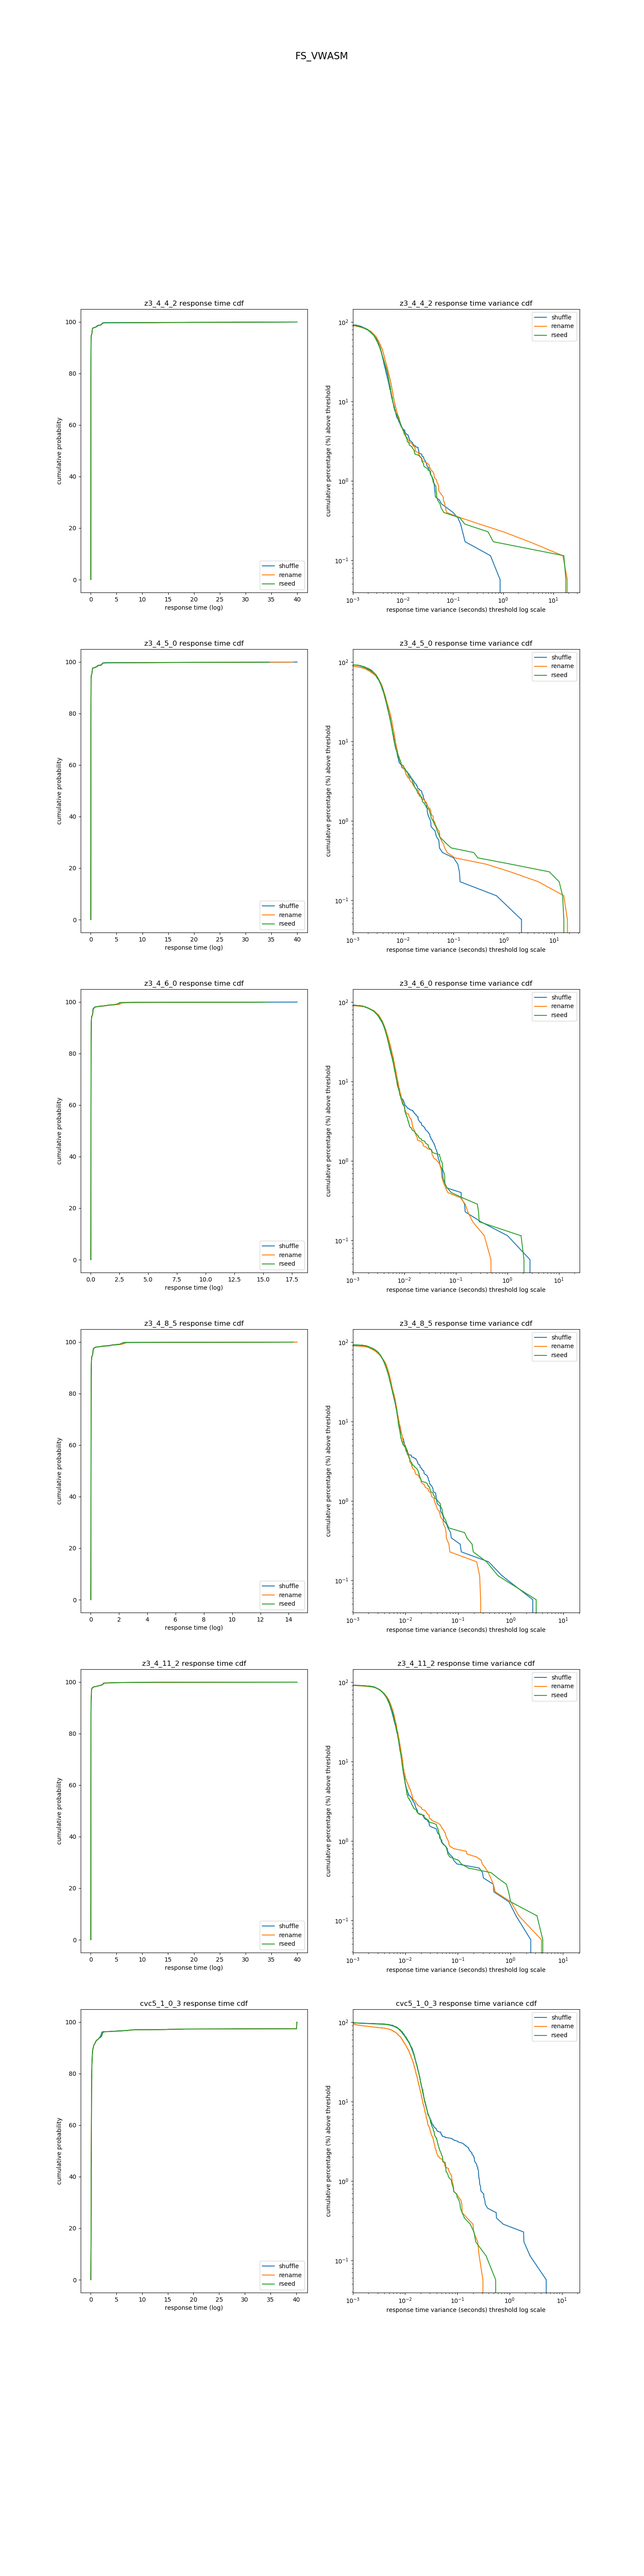
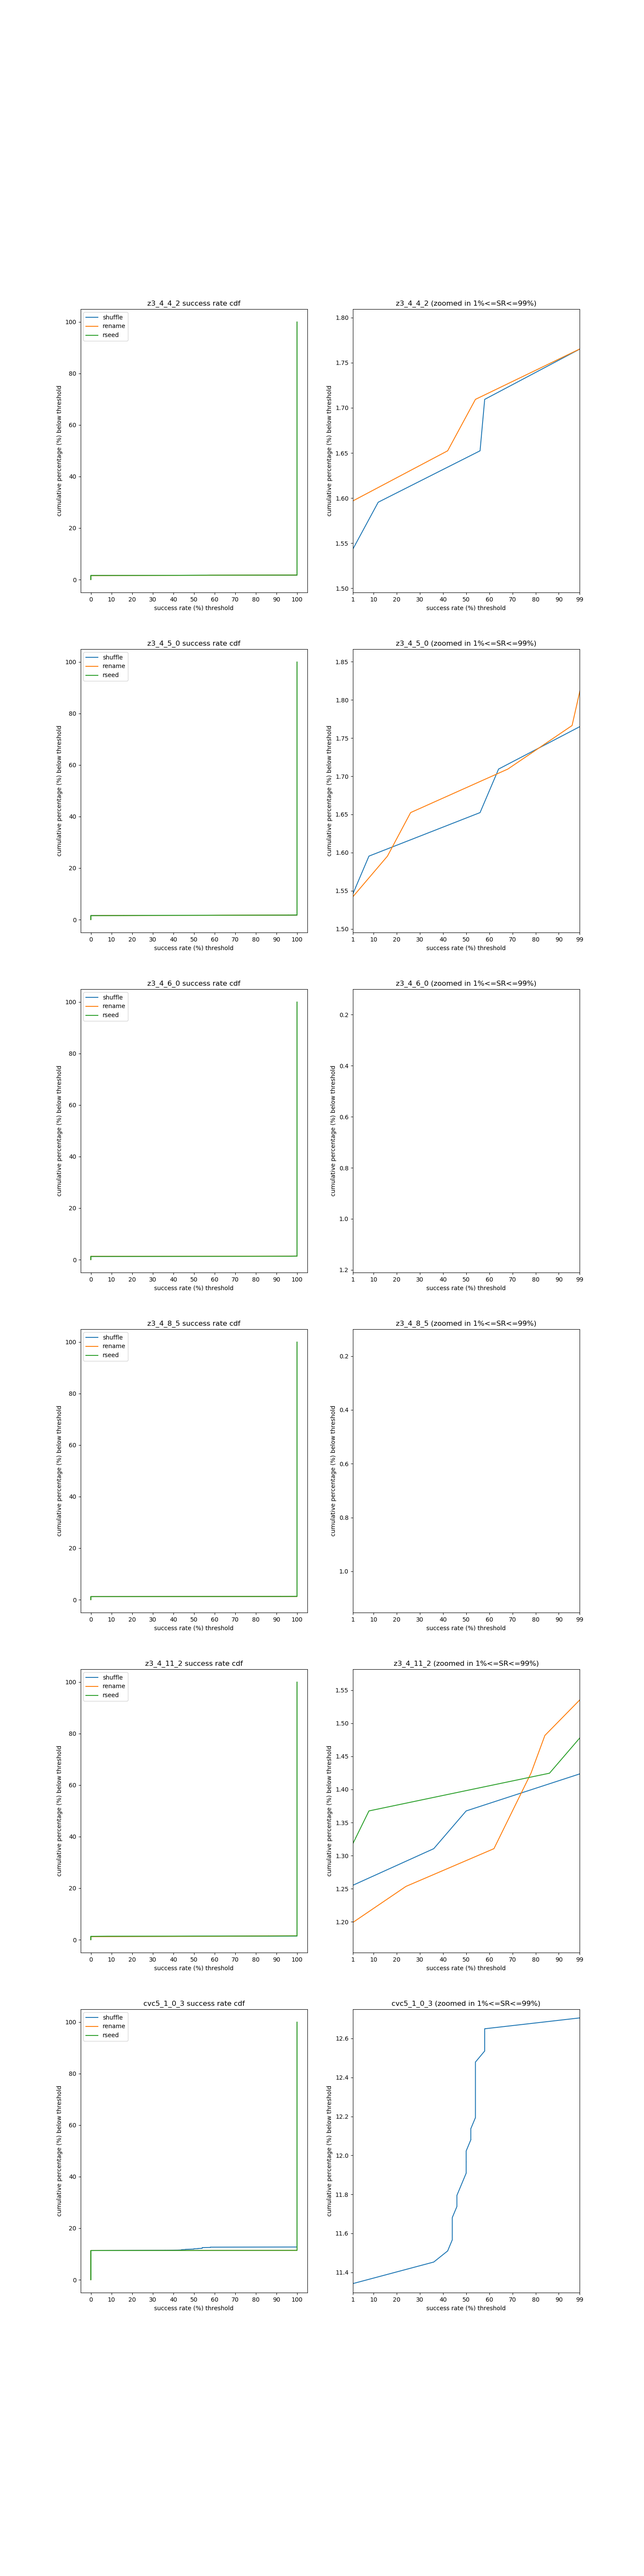
better reporting on the unstable interval

diff --git a/scripts/analyzer.py b/scripts/analyzer.py
@@ -11,12 +11,6 @@ from configs.experiments import *
 from plot_utils import *
 import matplotlib.pyplot as plt
 
-def as_seconds(milliseconds):
-    return milliseconds / 1000
-
-def as_percentage(p):
-    return p * 100
-
 def append_summary_table(cfg, solver):
     con, cur = get_cursor()
     solver_table = cfg.qcfg.get_solver_table_name(solver)
@@ -85,59 +79,94 @@ def build_summary_table(cfg):
     for solver in cfg.samples:
         append_summary_table(cfg, solver)
 
-def plot_time_overall(cfg):
+def as_seconds(milliseconds):
+    return milliseconds / 1000
+
+def group_time_mean(times):
+    assert len(times) != 0
+    return as_seconds(np.mean(times))
+
+def group_time_std(times):
+    assert len(times) != 0
+    return as_seconds(np.std(times))
+
+def group_success_rate(vres):
+    assert len(vres) != 0
+    return vres.count("unsat") * 100 / len(vres)
+
+def plot_basic_overall(cfg):
     con, cur = get_cursor()
     summary_table_name = cfg.get_summary_table_name()
     solver_count = len(cfg.samples)
-    figure, aixs = setup_fig(solver_count, 2)
+    time_figure, time_aixs = setup_fig(solver_count, 2)
+    result_figure, result_aixs = setup_fig(solver_count, 2)
     for i, solver in enumerate(cfg.samples):
         solver = str(solver)
         res = cur.execute(f"""SELECT * FROM {summary_table_name}
             WHERE solver = ?""", (solver, ))
         rows = res.fetchall()
 
-        dists = cfg.empty_muts_map()
-        dists2 = cfg.empty_muts_map()
+        means = cfg.empty_muts_map()
+        stds = cfg.empty_muts_map()
+        srs = cfg.empty_muts_map()
 
         for row in rows:
             summaries = ast.literal_eval(row[4])
-            for (perturb, _, times) in summaries:
-                if len(times) != 0:
-                    dists[perturb].append(as_seconds(np.std(times)))
-                    dists2[perturb].append(as_seconds(np.mean(times)))
+            for (perturb, vres, times) in summaries:
+                if len(times) == 0:
+                    continue
+                assert len(vres) == len(times)
+                means[perturb].append(group_time_mean(times))
+                stds[perturb].append(group_time_std(times))
+                srs[perturb].append(group_success_rate(vres))
         if solver_count == 1:
-            plot_time_variance_cdfs(aixs, dists, dists2, solver)
+            plot_time_overall(time_aixs, means, stds, solver)
+            plot_result_overall(result_aixs, srs, solver)
         else:
-            plot_time_variance_cdfs(aixs[i], dists, dists2, solver)
+            plot_time_overall(time_aixs[i], means, stds, solver)
+            plot_result_overall(result_aixs[i], srs, solver)
     con.close()
     name = cfg.qcfg.name
-    save_fig(figure, f"{name}", f"fig/time_overall/{name}.png")
+    save_fig(time_figure, f"{name}", f"fig/time_overall/{name}.png")
+    save_fig(result_figure, f"{name}", f"fig/result_overall/{name}.png")
 
-def plot_result_overall(cfg):
+def get_unstable_intervals(cfg):
     con, cur = get_cursor()
+    summary_table_name = cfg.get_summary_table_name()
     intervals = dict()
-    summary_table_name = cfg.get_summary_table_name()
-    solver_count = len(cfg.samples)
-    figure, aixs = setup_fig(solver_count, 2)
-    for i, solver in enumerate(cfg.samples):
+    for _, solver in enumerate(cfg.samples):
         solver = str(solver)
         res = cur.execute(f"""SELECT * FROM {summary_table_name}
             WHERE solver = ?""", (solver, ))
         rows = res.fetchall()
-        dists = cfg.empty_muts_map()
+
+        unsolvables = cfg.empty_muts_map(set())
+        stables = cfg.empty_muts_map(set())
+        count = 0
 
         for row in rows:
             summaries = ast.literal_eval(row[4])
-            for (perturb, vres, _) in summaries:
-                if len(vres) != 0:
-                    dists[perturb].append(vres.count("unsat") * 100 / len(vres))
-        if solver_count == 1:
-            plot_success_rate_cdfs(aixs, dists, solver)
-        else:
-            plot_success_rate_cdfs(aixs[i], dists, solver)
-    con.close()
-    name = cfg.qcfg.name
-    save_fig(figure, f"{name}", f"fig/result_overall/{name}.png")
+            plain_res = row[2]
+            plain_path = row[1]
+            for (perturb, vres, times) in summaries:
+                if len(times) == 0:
+                    continue
+                assert len(vres) == len(times)
+                # consider the plain one as well
+                vres.append(plain_res) 
+                if group_success_rate(vres) == 0:
+                    unsolvables[perturb].add(plain_path)
+                elif group_success_rate(vres) == 100:
+                    stables[perturb].add(plain_path)
+            count += 1    
+        unsolvables = [v for v in unsolvables.values()]
+        stables = [v for v in stables.values()]
+
+        unsolvables = set.intersection(*unsolvables)
+        stables = set.intersection(*stables)
+        max_ratio = (count - len(stables)) * 100 / count
+        min_ratio = len(unsolvables) * 100 / count
+        intervals[solver] = (min_ratio, max_ratio)
     return intervals
 
 # def str_percent(p):
@@ -148,23 +177,23 @@ def plot_result_overall(cfg):
 # def str_interval(interval):
 #     return f"{str_percent(interval[0])}, {str_percent(interval[1])}"
 
-def print_summary_data(cfgs):
-    rows = []
-    for cfg in cfgs:
-        # print(cfg.get_project_name())
-        row = []
-        intervals = plot_result_overall(cfg)
-        bounds = plot_time_overall(cfg)
-        for solver in ALL_SOLVERS:
-            item = [np.nan, np.nan, np.nan]
-            if solver in intervals:
-                item[0] = intervals[solver][0]
-                item[1] = intervals[solver][1]
-            if solver in bounds:
-                item[2] = bounds[solver]
-            row.append(item)
-        rows.append(row)
-    print(rows)
+# def print_summary_data(cfgs):
+#     rows = []
+#     for cfg in cfgs:
+#         # print(cfg.get_project_name())
+#         row = []
+#         intervals = plot_result_overall(cfg)
+#         bounds = plot_time_overall(cfg)
+#         for solver in ALL_SOLVERS:
+#             item = [np.nan, np.nan, np.nan]
+#             if solver in intervals:
+#                 item[0] = intervals[solver][0]
+#                 item[1] = intervals[solver][1]
+#             if solver in bounds:
+#                 item[2] = bounds[solver]
+#             row.append(item)
+#         rows.append(row)
+#     print(rows)
 
 def as_md_row(row):
     return "|" + "|".join(row) + "|"
@@ -176,11 +205,6 @@ def as_md_table(table):
         lines.append(as_md_row(row))
     lines.append("\n")
     return "\n".join(lines)
-
-def get_percent(a, b):
-    if b == 0:
-        return np.nan
-    return round(a * 100 / b, 2)
 
 def plot_time_mixed(cfg):
     con, cur = get_cursor()

diff --git a/scripts/plot_utils.py b/scripts/plot_utils.py
@@ -28,7 +28,7 @@ def save_fig(figure, title, file):
     figure.suptitle(title, fontsize=16)
     plt.savefig(file)
 
-def plot_time_variance_cdfs(sps, dists, dists2, sname):
+def plot_time_overall(sps, dists, dists2, sname):
     sp = sps[0]
     sp.set_title(f'{sname} response time cdf')
 
@@ -37,24 +37,23 @@ def plot_time_variance_cdfs(sps, dists, dists2, sname):
         sp.plot(xs, ys, marker=",", label=label)
     sp.set_ylabel("cumulative probability")
     sp.set_xlabel("response time (log)")
-    # sp.set_xscale("log")
     sp.legend()
 
     sp = sps[1]
-    sp.set_title(f'{sname} response time variance cdf')
+    sp.set_title(f'{sname} response time standard deviation cdf')
     for label, dist in dists.items():
         xs, ys = get_cdf_pts(dist)
         if xs[-1] >= 1:
             li = len(xs) - np.where(xs>=1)[0][0] - 1
         sp.plot(xs, ys[::-1], marker=",", label=label)
     sp.set_ylabel("cumulative percentage (%) above threshold")
-    sp.set_xlabel("response time variance (seconds) threshold log scale")
+    sp.set_xlabel("response time standard deviation (seconds) threshold log scale")
     sp.set_xscale("log")
     sp.set_xlim(left=0.001)
     sp.set_yscale("log")
     sp.legend()
 
-def plot_success_rate_cdfs(sps, dists, sname):
+def plot_result_overall(sps, dists, sname):
     sp = sps[0]
     sp.set_title(f'{sname} success rate cdf')
     for label, dist in dists.items():

diff --git a/scripts/main.py b/scripts/main.py
@@ -32,8 +32,9 @@ ALL_CFGS = [S_KOMODO_CFG, D_KOMODO_CFG, D_LVBKV_CFG, D_FVBKV_CFG, FS_DICE_CFG, F
 
 def analyze_results(cfg):
     # build_summary_table(cfg)
-    plot_time_overall(cfg)
-    plot_result_overall(cfg)
+    # plot_basic_overall(cfg)
+    get_unstable_intervals(cfg)
+    # plot_result_overall(cfg)
     # build_summary_table(D_LVBKV_CFG)
     # print_summary_data(cfgs)
     # plot_query_sizes(cfgs)
@@ -59,6 +60,8 @@ def send_dir():
 
 if __name__ == '__main__':
     os.system("cargo build --release")
+    print("checking scaling_governor")
+    os.system("cat /sys/devices/system/cpu/cpu*/cpufreq/scaling_governor | uniq")
     # S_KOMODO_CFG = ExpConfig("S_KOMODO", S_KOMODO, [CVC5_1_0_3])
     analyze_results(FS_VWASM_CFG)
     # clean_queries()

diff --git a/scripts/configs/experiments.py b/scripts/configs/experiments.py
@@ -64,8 +64,8 @@ class ExpConfig:
     def get_project_name(self):
         return self.qcfg.project.name
 
-    def empty_muts_map(self):
-        m = {str(mut): [] for mut in self.qcfg.enabled_muts}
+    def empty_muts_map(self, init=[]):
+        m = {str(mut): init.copy() for mut in self.qcfg.enabled_muts}
         return m
 
     # def _check_queries_exist(self):
